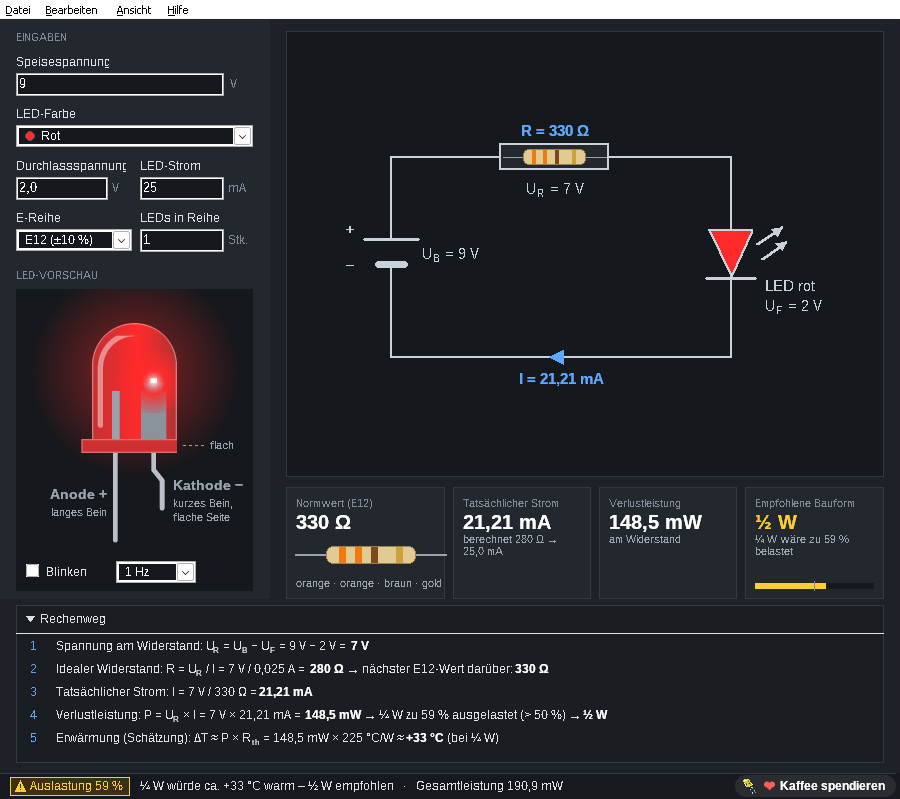
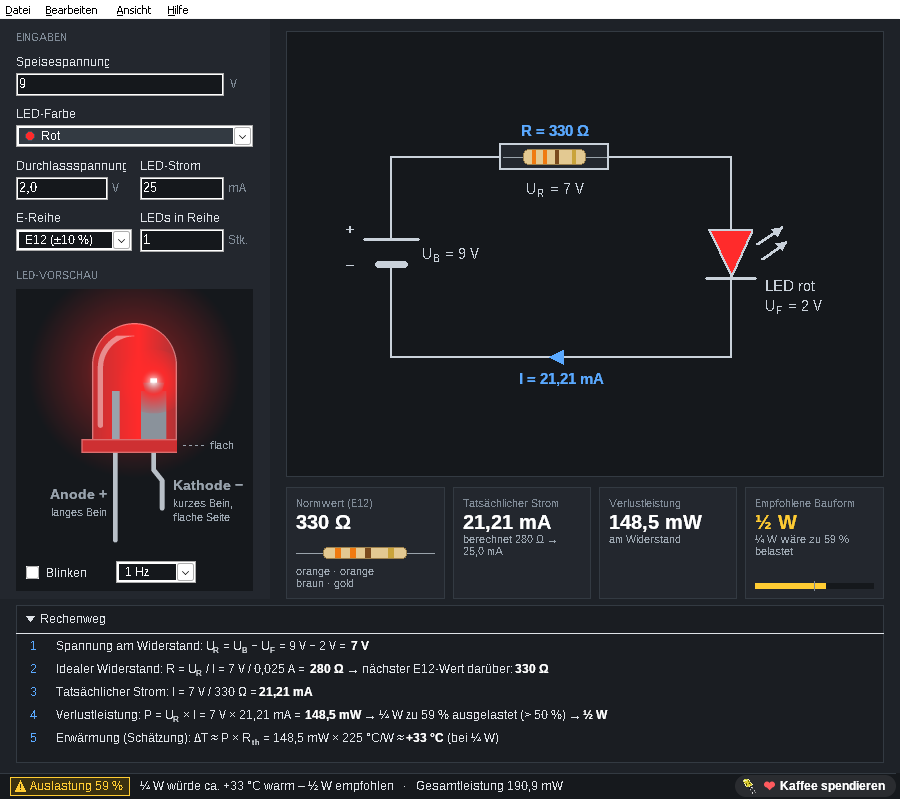
Release 2.0.1 vorbereiten: Datum im CHANGELOG, Projektseite auf 2.0.1
- CHANGELOG: 2.0.1 – 30. Oktober 2026
- Projektseite (EN/DE): Fensterleiste und softwareVersion 2.0.1, Screenshots neu mit 2.0.1 (Wine 100 %), Sitemap-Datum
- TODO: Release 2.0.1 in Arbeit

Changed region(s): [[0.3111, 0.6608, 0.4978, 0.7209], [0.0, 0.1502, 0.28, 0.1802]]

diff --git a/site/index.html b/site/index.html
@@ -44,7 +44,7 @@
   "description": "Calculates the series resistor for one or more LEDs in series: next standard value from E12, E24 or E96, colour bands, real current, power and recommended resistor size, with a step-by-step explanation.",
   "url": "https://elospeed.github.io/LedPreResistor/",
   "downloadUrl": "https://github.com/Elospeed/LedPreResistor/releases/latest",
-  "softwareVersion": "2.0",
+  "softwareVersion": "2.0.1",
   "license": "https://opensource.org/licenses/MIT",
   "isAccessibleForFree": true,
   "offers": { "@type": "Offer", "price": "0", "priceCurrency": "USD" },
@@ -87,7 +87,7 @@
       <li>E12, E24 and E96</li>
     </ul>
     <figure class="shot hero-shot">
-      <div class="bar"><img src="img/icon-32.png" alt=""><span>LedPreResistor · Elospeed 2.0</span><i class="min"></i><i class="max"></i><i class="cls"></i></div>
+      <div class="bar"><img src="img/icon-32.png" alt=""><span>LedPreResistor · Elospeed 2.0.1</span><i class="min"></i><i class="max"></i><i class="cls"></i></div>
       <img src="img/ledpreresistor-main.png" width="900" height="799" alt="LedPreResistor main window: 12 V supply, white LED, 20 mA. Schematic with 470 ohm resistor, colour bands yellow violet brown gold, 18.72 mA, 164.8 mW, recommended size half a watt, and the calculation step by step">
     </figure>
     <figcaption>The program is in German for now; an English version is planned.</figcaption>
@@ -124,7 +124,7 @@
       </ul>
     </div>
     <figure class="shot">
-      <div class="bar"><img src="img/icon-32.png" alt=""><span>LedPreResistor · Elospeed 2.0</span><i class="min"></i><i class="max"></i><i class="cls"></i></div>
+      <div class="bar"><img src="img/icon-32.png" alt=""><span>LedPreResistor · Elospeed 2.0.1</span><i class="min"></i><i class="max"></i><i class="cls"></i></div>
       <img src="img/ledpreresistor-warning.png" width="900" height="799" alt="LedPreResistor with 9 V, red LED, 25 mA: 330 ohm, 148.5 mW, a quarter watt resistor would be 59 percent loaded, the status bar shows a yellow warning and recommends half a watt" loading="lazy">
     </figure>
   </div>

diff --git a/site/de/index.html b/site/de/index.html
@@ -44,7 +44,7 @@
   "description": "Berechnet den Vorwiderstand für eine oder mehrere LEDs in Reihe: nächsthöherer Normwert aus E12, E24 oder E96, Farbringe, tatsächlicher Strom, Leistung und empfohlene Bauform, mit Rechenweg Schritt für Schritt.",
   "url": "https://elospeed.github.io/LedPreResistor/de/",
   "downloadUrl": "https://github.com/Elospeed/LedPreResistor/releases/latest",
-  "softwareVersion": "2.0",
+  "softwareVersion": "2.0.1",
   "inLanguage": "de",
   "license": "https://opensource.org/licenses/MIT",
   "isAccessibleForFree": true,
@@ -88,7 +88,7 @@
       <li>E12, E24 und E96</li>
     </ul>
     <figure class="shot hero-shot">
-      <div class="bar"><img src="../img/icon-32.png" alt=""><span>LedPreResistor · Elospeed 2.0</span><i class="min"></i><i class="max"></i><i class="cls"></i></div>
+      <div class="bar"><img src="../img/icon-32.png" alt=""><span>LedPreResistor · Elospeed 2.0.1</span><i class="min"></i><i class="max"></i><i class="cls"></i></div>
       <img src="../img/ledpreresistor-main.png" width="900" height="799" alt="Hauptfenster von LedPreResistor: 12 V, weisse LED, 20 mA. Schaltplan mit 470-Ohm-Widerstand, Farbringe gelb violett braun gold, 18,72 mA, 164,8 mW, empfohlene Bauform ein halbes Watt, darunter der Rechenweg">
     </figure>
   </div>
@@ -124,7 +124,7 @@
       </ul>
     </div>
     <figure class="shot">
-      <div class="bar"><img src="../img/icon-32.png" alt=""><span>LedPreResistor · Elospeed 2.0</span><i class="min"></i><i class="max"></i><i class="cls"></i></div>
+      <div class="bar"><img src="../img/icon-32.png" alt=""><span>LedPreResistor · Elospeed 2.0.1</span><i class="min"></i><i class="max"></i><i class="cls"></i></div>
       <img src="../img/ledpreresistor-warning.png" width="900" height="799" alt="LedPreResistor mit 9 V, roter LED, 25 mA: 330 Ohm, 148,5 mW, ein Viertelwatt-Widerstand wäre zu 59 Prozent ausgelastet, die Statuszeile warnt gelb und empfiehlt ein halbes Watt" loading="lazy">
     </figure>
   </div>

diff --git a/CHANGELOG.md b/CHANGELOG.md
@@ -7,7 +7,7 @@ Die technischen Hintergründe stehen im [Entwicklungslog](docs/ENTWICKLUNGSLOG.m
 
 ---
 
-## 2.0.1 – noch nicht veröffentlicht
+## 2.0.1 – 30. Oktober 2026
 
 ### Anzeigeskalierung (125 / 150 / 200 %)
 - Das Hauptfenster war bei 150 und 200 % höher als ein Full-HD-Bildschirm: Statuszeile und Ko-fi-Knopf lagen unter dem Bildschirmrand, bei 200 % passte nicht einmal die Mindestgrösse. Es wird jetzt auf den freien Bildschirm begrenzt, die Mindestgrösse bleibt kleiner als die Startgrösse (neue Unit `uSkalierung`, gleich wie bei StemMaker).

diff --git a/TODO.md b/TODO.md
@@ -6,7 +6,7 @@ Jede Aufgabe trägt sich im selben Pull Request hier ein und wieder aus. Erledig
 
 ## In Arbeit
 
-- [ ] Release 2.0 vorbereiten: Workflow «Release erstellen», CHANGELOG-Abschnitt 2.0 (dieser PR)
+- [ ] Release 2.0.1 (Anzeigeskalierung): Datum im CHANGELOG, Projektseite auf 2.0.1 (dieser PR), danach Workflow «Release erstellen» mit Version 2.0.1
 
 ## Als Nächstes
 
